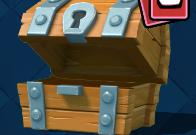
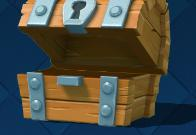
Changed collected values

diff --git a/ClashRoyalePlayer/src/clashroyaleplayer/app/Main.java b/ClashRoyalePlayer/src/clashroyaleplayer/app/Main.java
@@ -16,7 +16,7 @@ public class Main {
 
 	public static void main(String[] args) throws Exception {
 		// Search for NoxPlayer window
-		HWND noxHandle = User32.INSTANCE.FindWindow(null, "NoxPlayer 1");
+		HWND noxHandle = User32.INSTANCE.FindWindow(null, "NoxPlayer 2");
 
 		if (noxHandle == null) {
 			System.err.println("Window not found. Exit.");
@@ -26,11 +26,10 @@ public class Main {
 			// Set the focus on Nox window
 			User32.INSTANCE.SetForegroundWindow(noxHandle);
 
-			// findPosInWnd();
-			// ImageCapturer capt = new ImageCapturer();
-			// BufferedImage img = capt.captureImage(new Rectangle(39, 274, 402,
-			// 311));
-			// capt.saveImage(img, "images/", "rewardLimitReached", "jpg");
+			//findPosInWnd();
+			//ImageCapturer capt = new ImageCapturer();
+			//BufferedImage img = capt.captureImage(new Rectangle(140, 295, 196, 135));
+			//capt.saveImage(img, "images/", "collectedGoldChest", "jpg");
 
 			AutoPlayer player = new AutoPlayer();
 			player.start();
@@ -45,6 +44,7 @@ public class Main {
 	// lockedFreeChest: 32, 145, 198, 58
 	// lockedCrownChest: 250, 145, 198, 58
 	// collectingGoldChest: 140, 470, 196, 135
+	// collectedFreeChest: 140, 295, 196, 135
 	// firstChest: 28, 639, 95, 80 shift between chests -> 112
 	// emotesIcon: 36, 690, 40, 26
 	// firstCard: 124, 700, 63, 81 shift between cards -> 85
@@ -56,7 +56,7 @@ public class Main {
 	@SuppressWarnings("unused")
 	private static void findPosInWnd() {
 		// Search for NoxPlayer window
-		HWND noxHandle = User32.INSTANCE.FindWindow(null, "NoxPlayer 1");
+		HWND noxHandle = User32.INSTANCE.FindWindow(null, "NoxPlayer 2");
 
 		// Print every 5 seconds the mouse position relative to Nox window
 		while (true) {

diff --git a/ClashRoyalePlayer/src/clashroyaleplayer/core/Actions.java b/ClashRoyalePlayer/src/clashroyaleplayer/core/Actions.java
@@ -18,7 +18,7 @@ public class Actions {
 		this.autoPlayer = autoPlayer;
 
 		// Search for NoxPlayer window
-		HWND noxHandle = User32.INSTANCE.FindWindow(null, "NoxPlayer 1");
+		HWND noxHandle = User32.INSTANCE.FindWindow(null, "NoxPlayer 2");
 
 		// Get the RECT representing the Nox window
 		noxWndRect = new RECT();

diff --git a/ClashRoyalePlayer/src/clashroyaleplayer/imageprocessing/ImageCapturer.java b/ClashRoyalePlayer/src/clashroyaleplayer/imageprocessing/ImageCapturer.java
@@ -22,7 +22,7 @@ public class ImageCapturer {
 		bot = new Robot();
 		
 		// Search for NoxPlayer window
-		HWND noxHandle = User32.INSTANCE.FindWindow(null, "NoxPlayer 1");
+		HWND noxHandle = User32.INSTANCE.FindWindow(null, "NoxPlayer 2");
 
 		// Get the RECT representing the Nox window
 		noxWndRect = new RECT();

diff --git a/ClashRoyalePlayer/src/clashroyaleplayer/core/ImageCapturer.java b/ClashRoyalePlayer/src/clashroyaleplayer/core/ImageCapturer.java
@@ -141,7 +141,7 @@ public class ImageCapturer extends clashroyaleplayer.imageprocessing.ImageCaptur
 
 		switch (autoPlayer.resolution) {
 		case R_1920X1080:
-			captureRect = new Rectangle(140, 470, 196, 135);
+			captureRect = new Rectangle(140, 295, 196, 135);
 			break;
 
 		case R_1366X768:
